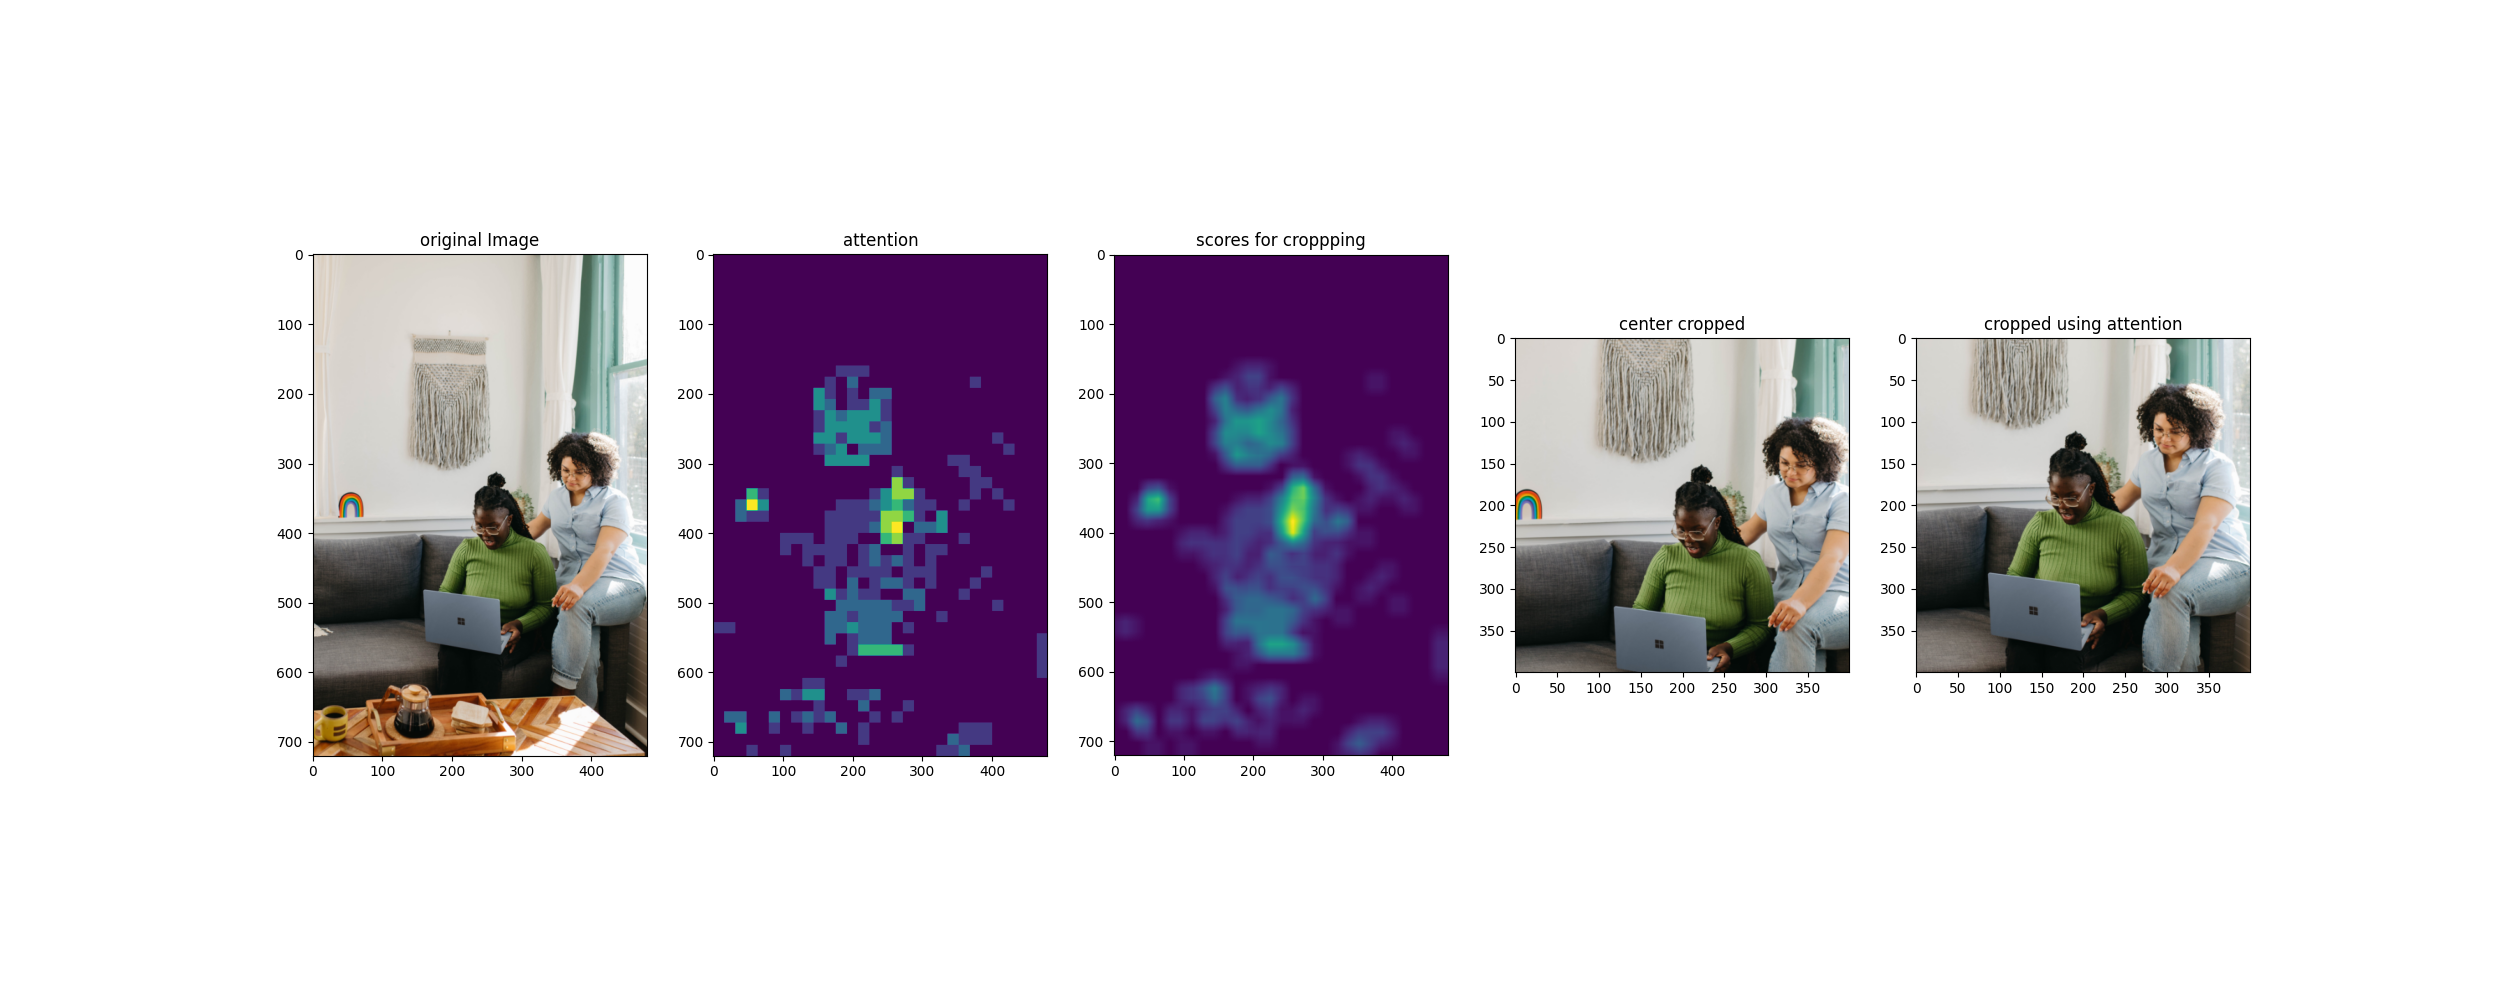
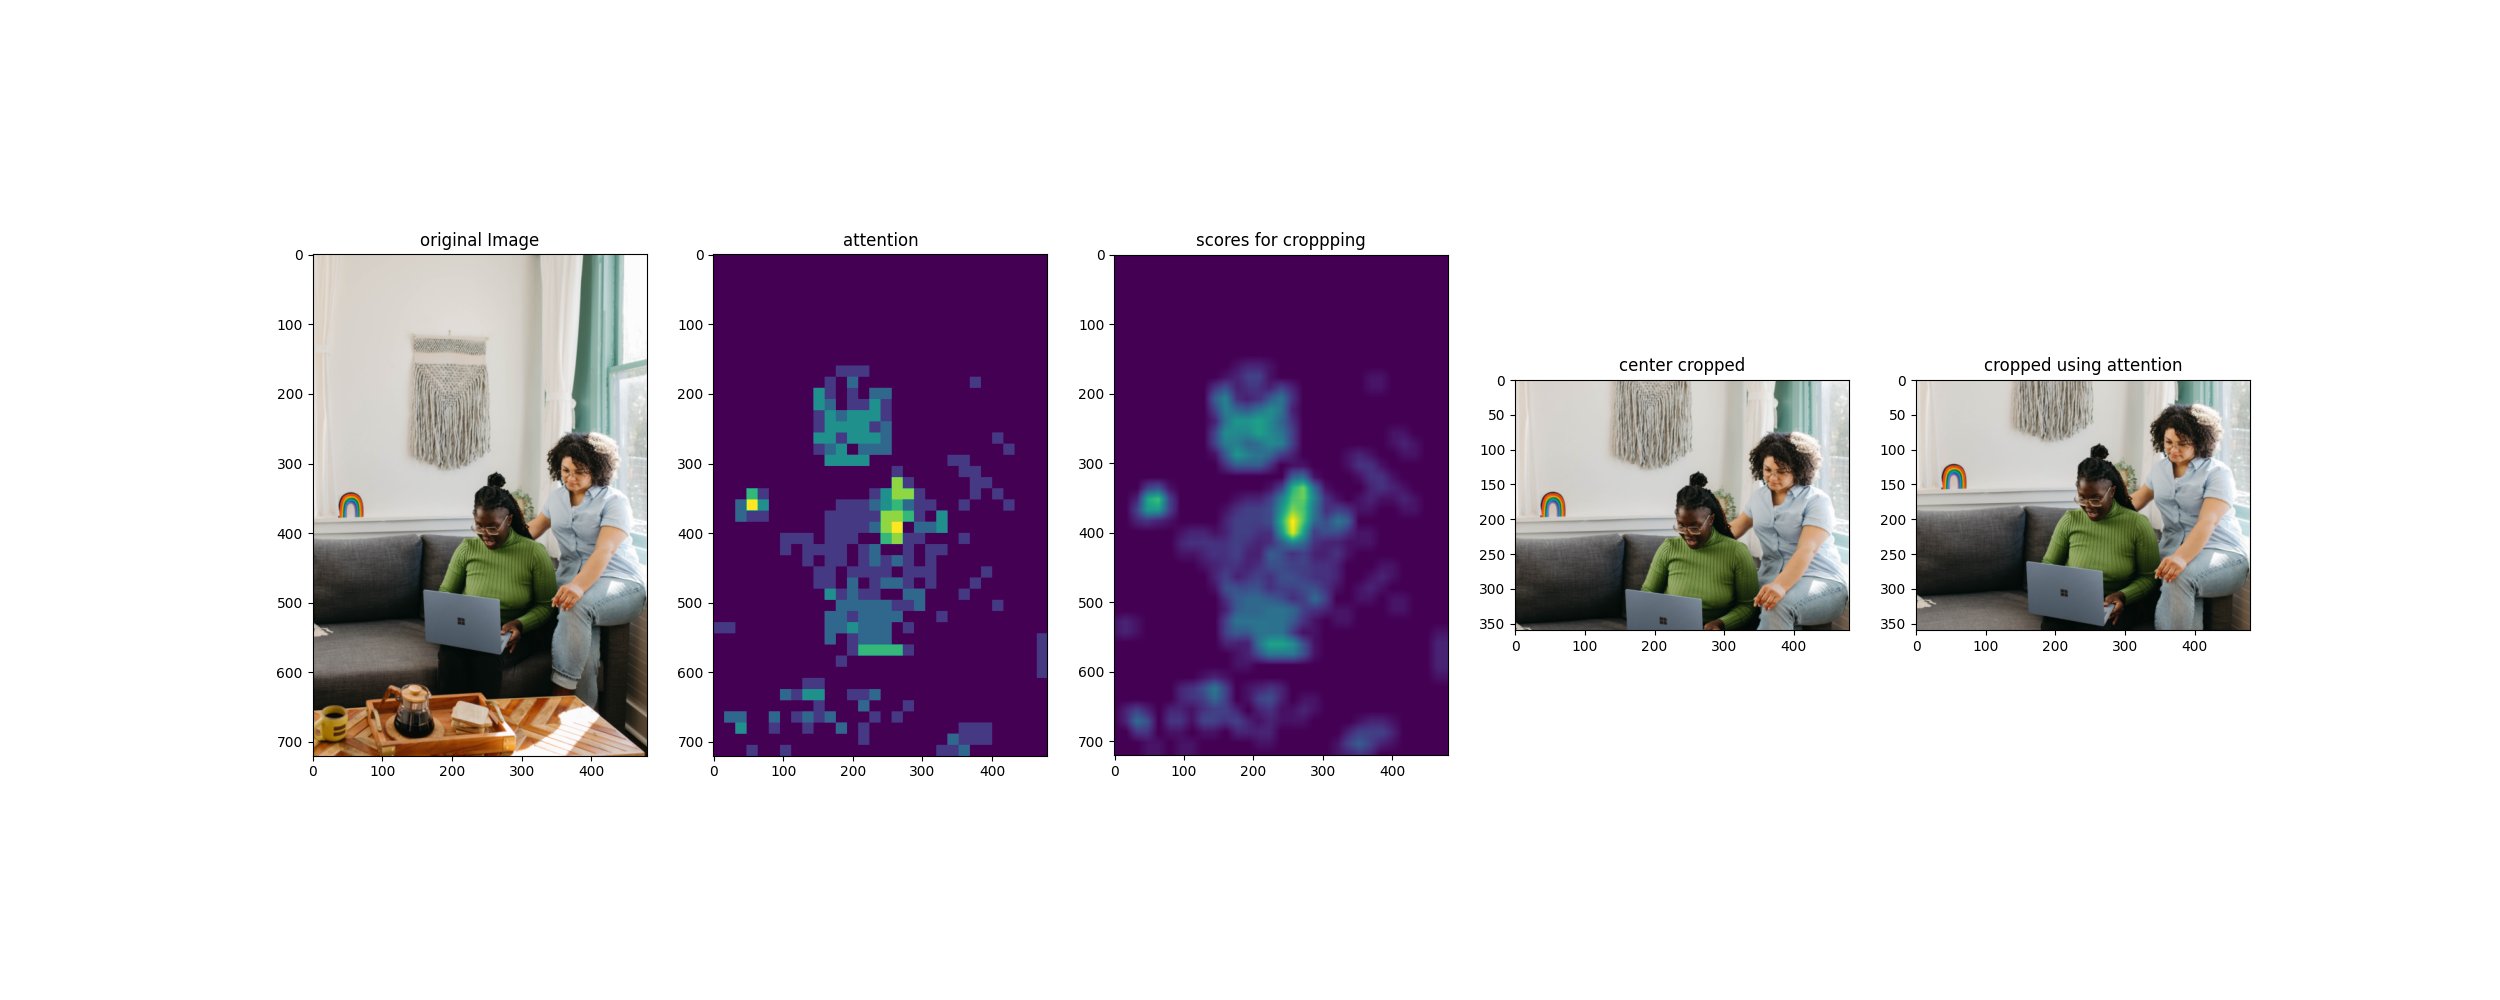
add white background

Changed region(s): [[0.5928, 0.31, 0.9048, 0.713]]

diff --git a/visualize_cropping.py b/visualize_cropping.py
@@ -118,7 +118,7 @@ def _get_preprocessor():
 
 
 def _plot_and_save(img, attention, scores, center_cropped, score_cropped):
-    fig = plt.figure(figsize=[25, 10], frameon=False)
+    fig = plt.figure(figsize=[25, 10])
 
     ax = fig.add_subplot(1, 5, 1)
     ax.imshow(img)
@@ -140,7 +140,7 @@ def _plot_and_save(img, attention, scores, center_cropped, score_cropped):
     ax.imshow(score_cropped)
     ax.set_title("cropped using attention")
 
-    fig.savefig(f"{FLAGS.output}")
+    fig.savefig(f"{FLAGS.output}", facecolor='white', transparent=False)
 
 
 if __name__ == "__main__":
